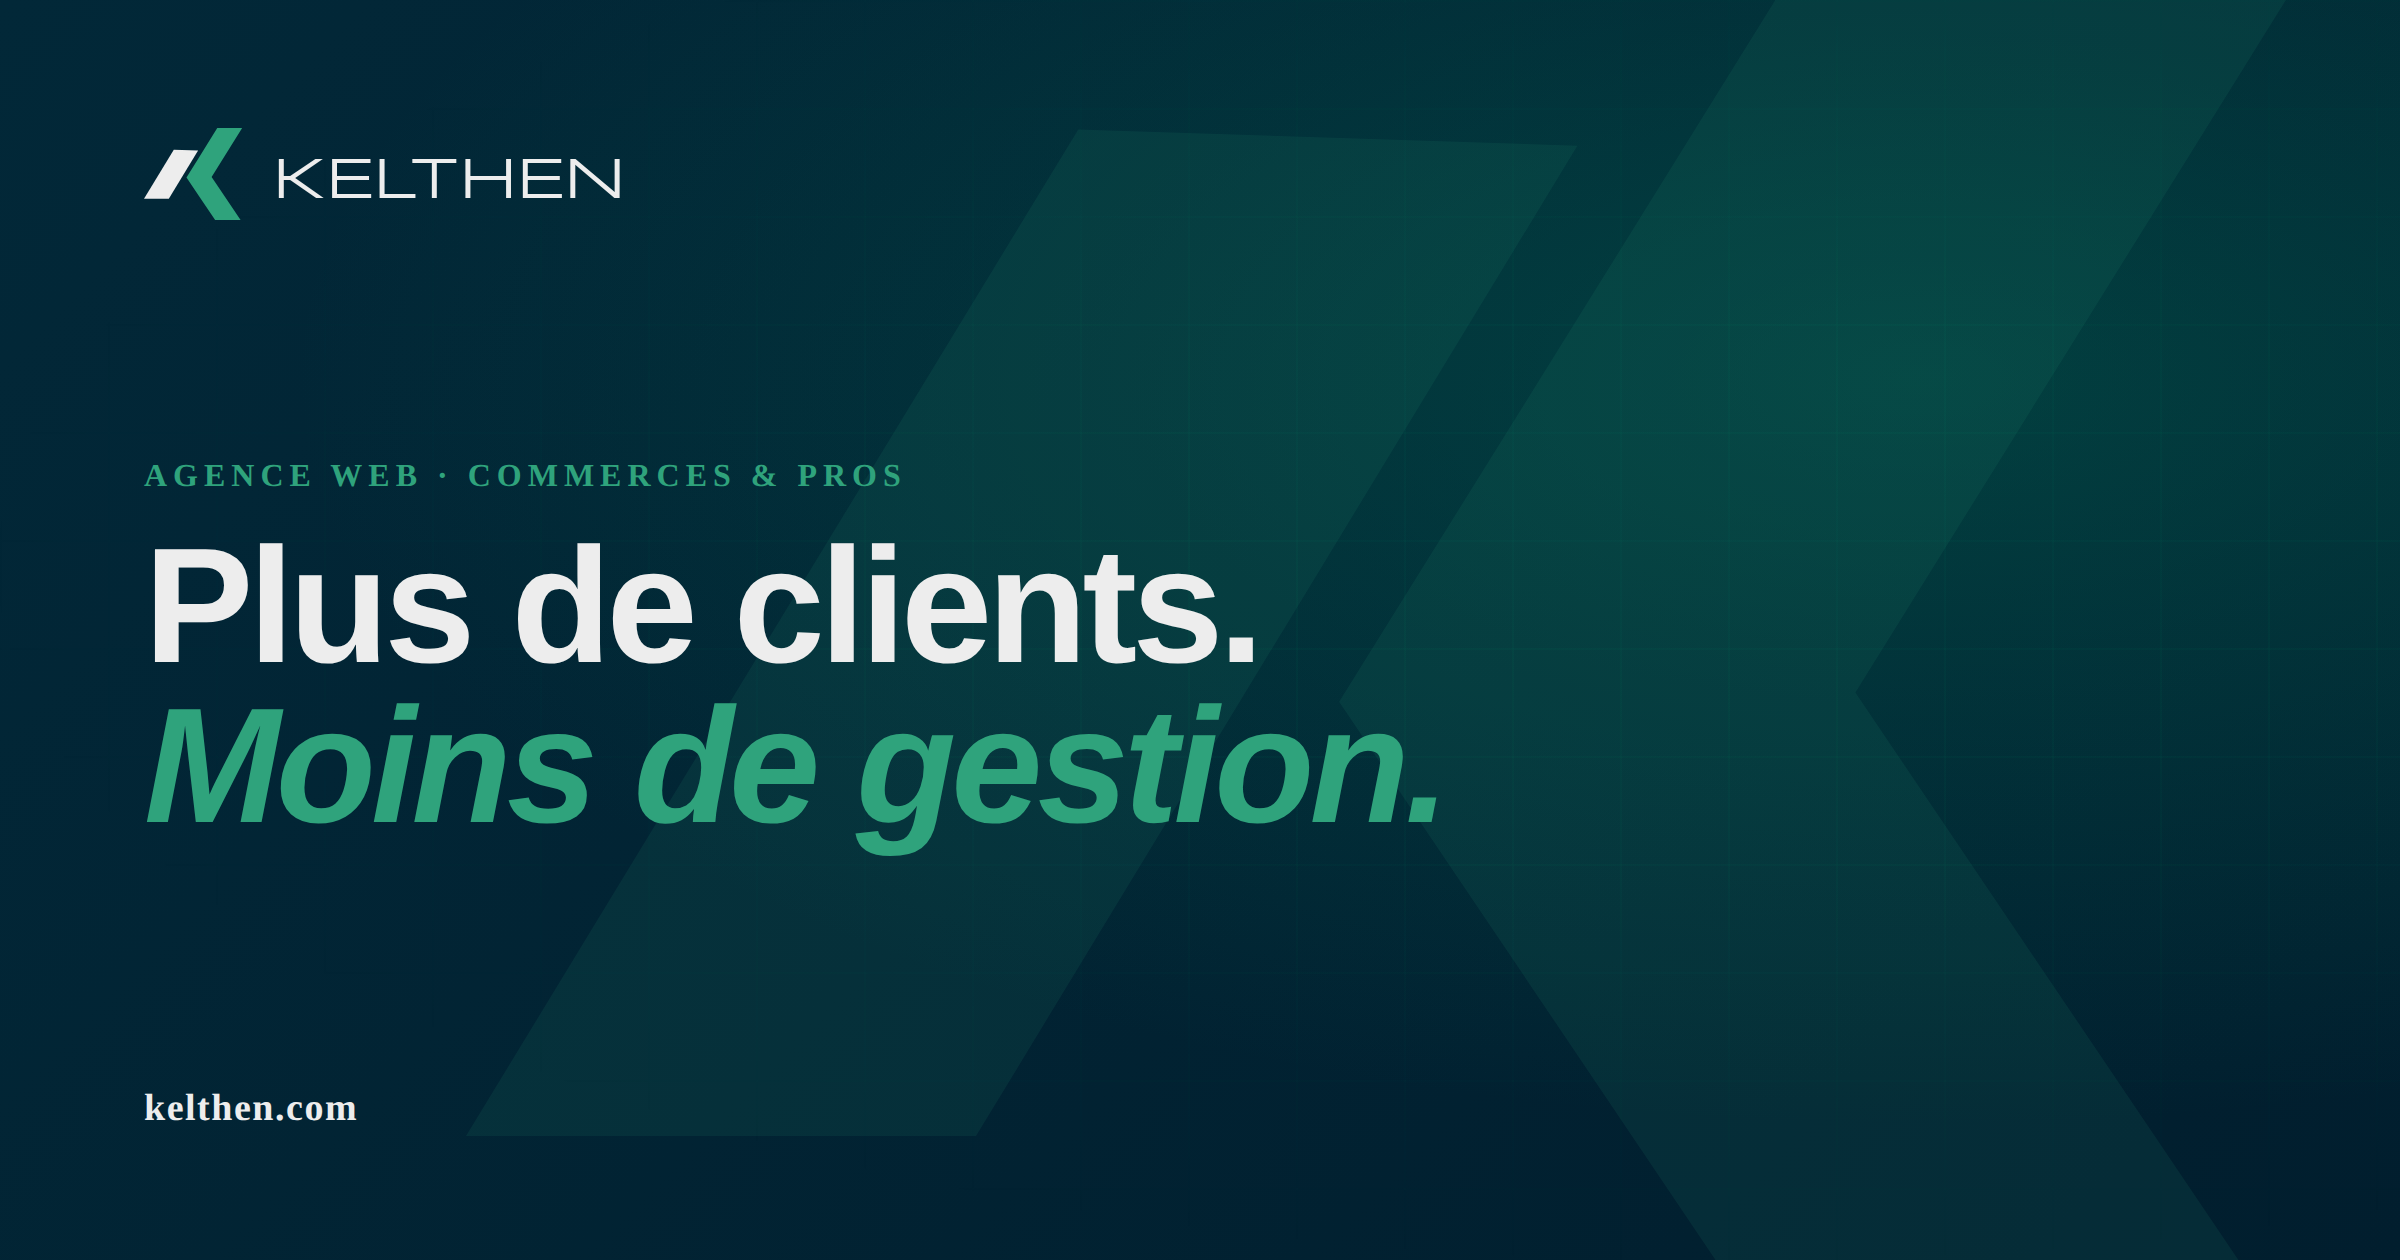
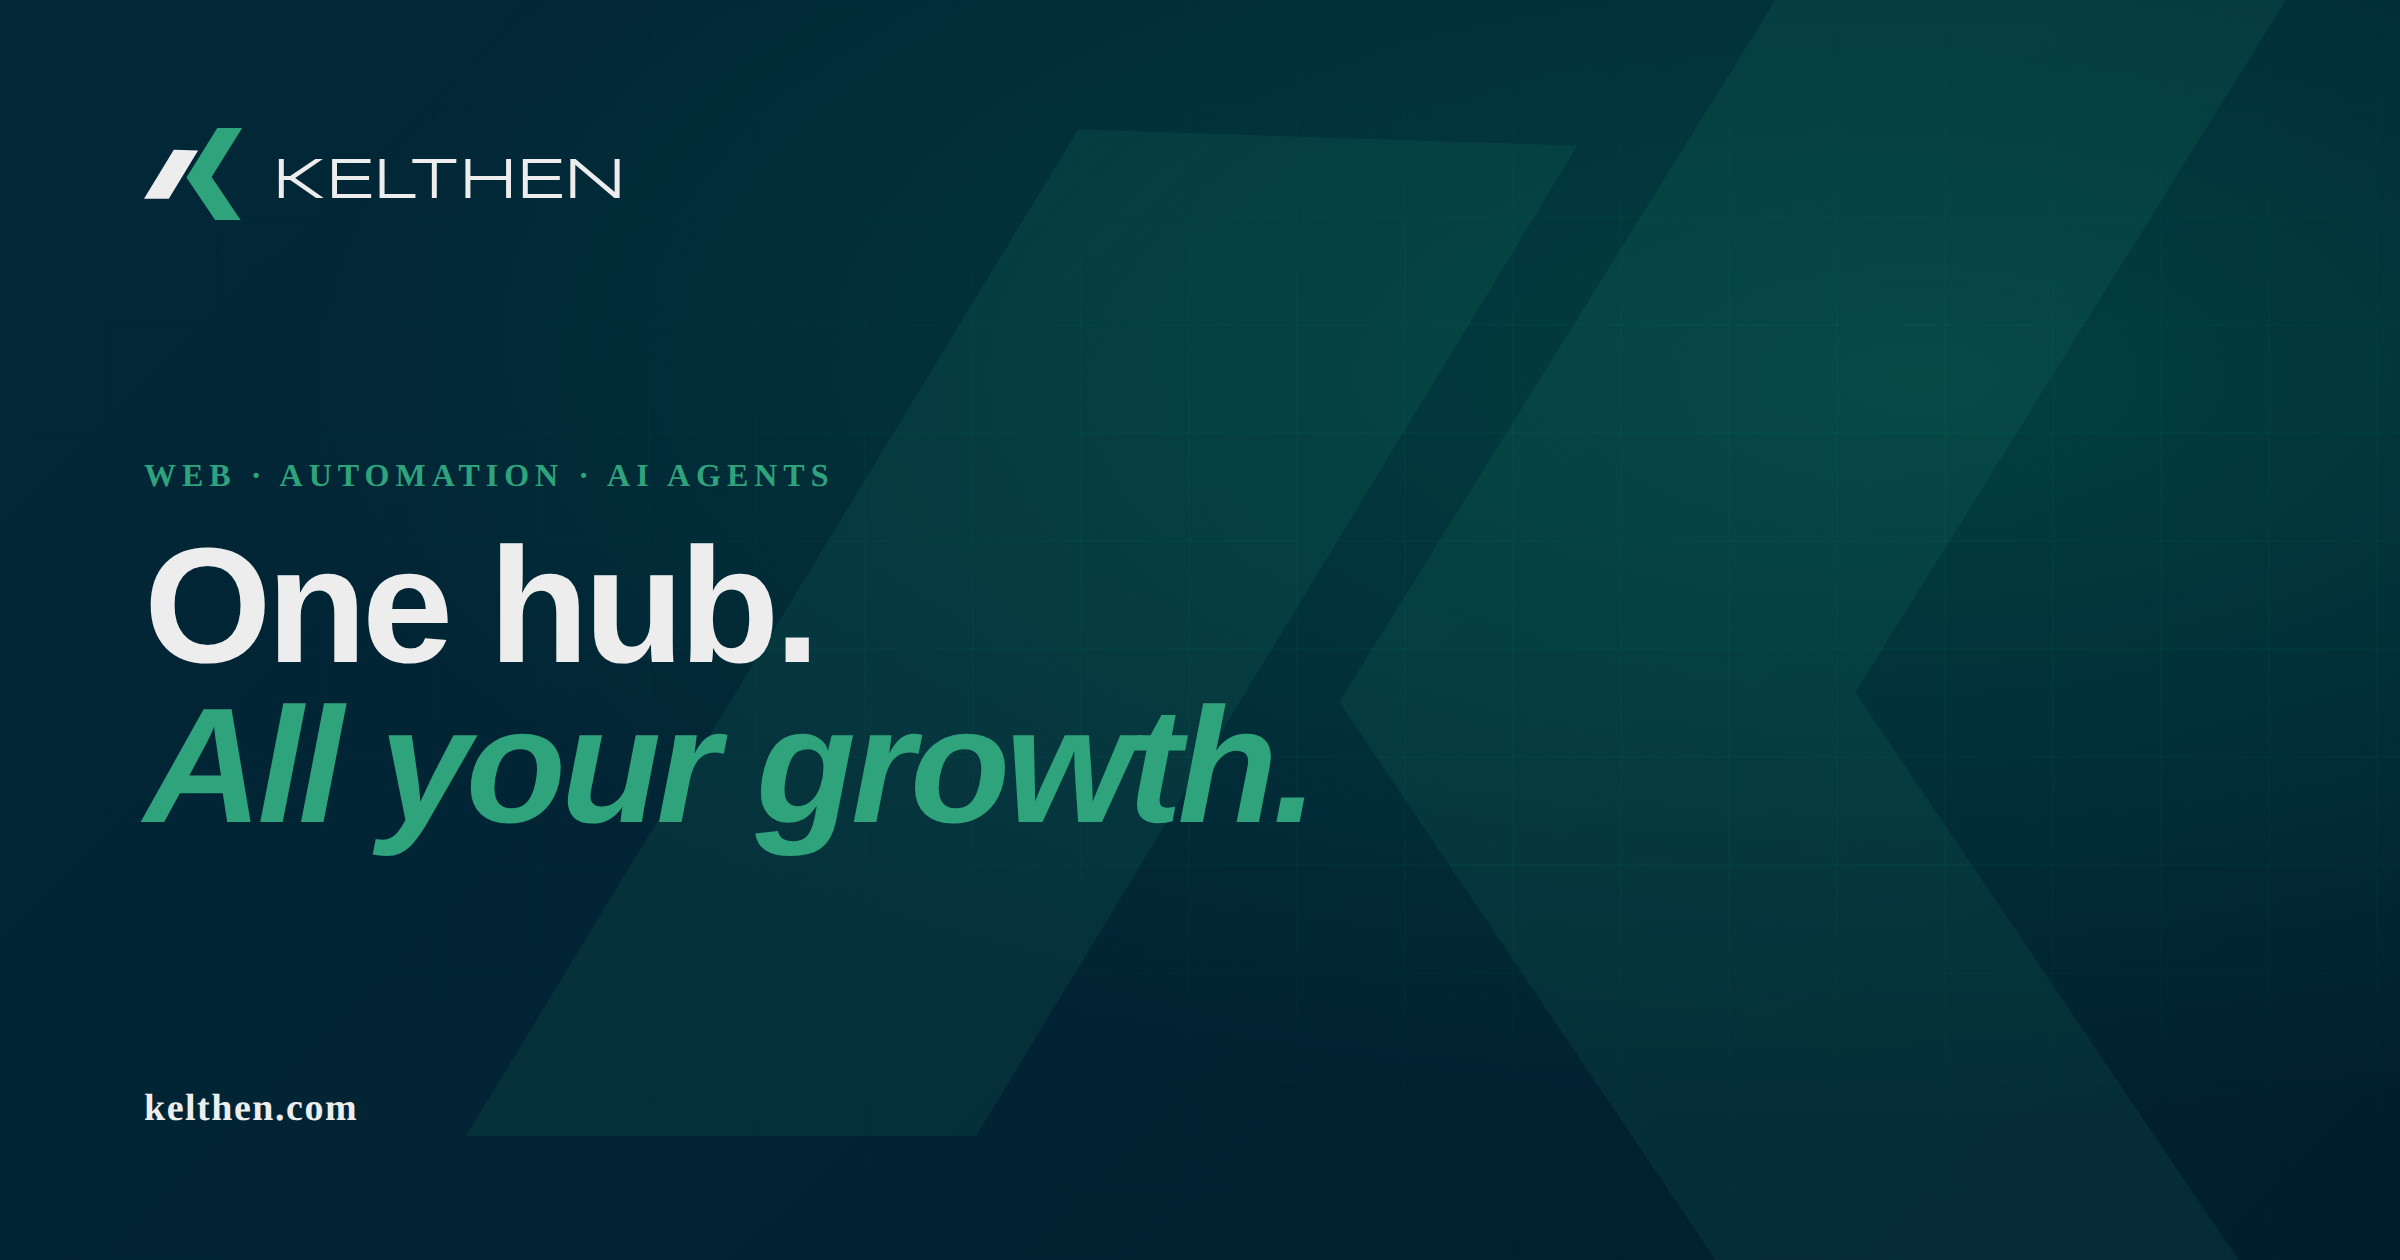
SEO/partage : og-image + meta au nouveau slogan « One hub. All your growth. » (EN), cache-bust ?v=2

Changed region(s): [[0.0625, 0.5571, 0.5938, 0.681], [0.0625, 0.4333, 0.5312, 0.5262], [0.0625, 0.3714, 0.375, 0.4024]]

diff --git a/index.html b/index.html
@@ -3,21 +3,24 @@
 <head>
   <meta charset="UTF-8">
   <meta name="viewport" content="width=device-width, initial-scale=1.0">
-  <meta name="description" content="Kelthen — agence web qui aide les commerces et entrepreneurs à attirer plus de clients : site, réservation en ligne, rappels automatiques, visibilité Google. Audit gratuit.">
+  <meta name="description" content="Kelthen connects your leads, emails, bookings and sales into one system — websites, automation and AI agents that run day and night. Book a free call.">
   <meta property="og:type"        content="website">
+  <meta property="og:site_name"   content="Kelthen">
+  <meta property="og:locale"      content="en_CA">
+  <meta property="og:locale:alternate" content="fr_CA">
   <meta property="og:url"         content="https://kelthen.com/">
-  <meta property="og:title"       content="Kelthen — Plus de clients. Moins de gestion.">
-  <meta property="og:description" content="On aide les commerces de proximité et les entrepreneurs à attirer plus de clients et à passer moins de temps sur la gestion. Site, réservation, rappels, visibilité Google.">
-  <meta property="og:image"       content="https://kelthen.com/og-image.png">
+  <meta property="og:title"       content="Kelthen — One hub. All your growth.">
+  <meta property="og:description" content="One hub connects your leads, emails, bookings and sales. Websites, automation and AI agents, engineered as one system by Kelthen.">
+  <meta property="og:image"       content="https://kelthen.com/og-image.png?v=2">
   <meta property="og:image:width"  content="1200">
   <meta property="og:image:height" content="630">
-  <meta property="og:image:alt"    content="Kelthen — Plus de clients. Moins de gestion.">
-  <meta name="twitter:image"       content="https://kelthen.com/og-image.png">
+  <meta property="og:image:alt"    content="Kelthen — One hub. All your growth.">
+  <meta name="twitter:image"       content="https://kelthen.com/og-image.png?v=2">
   <meta name="twitter:card"       content="summary_large_image">
-  <meta name="twitter:title"      content="Kelthen — Plus de clients. Moins de gestion.">
-  <meta name="twitter:description" content="On aide les commerces et entrepreneurs à attirer plus de clients et à gérer moins. Audit gratuit.">
+  <meta name="twitter:title"      content="Kelthen — One hub. All your growth.">
+  <meta name="twitter:description" content="One system for your leads, emails, bookings and sales — websites, automation and AI agents. Book a call.">
   <meta name="referrer" content="strict-origin-when-cross-origin">
-  <title>Agence web au Canada — sites, réservation en ligne &amp; automatisation | Kelthen</title>
+  <title>Kelthen — Web, automation &amp; AI agency in Canada</title>
   <link rel="canonical" href="https://kelthen.com/">
   <link rel="icon" href="/favicon.ico" sizes="any">
   <link rel="icon" type="image/svg+xml" href="/favicon.svg">
